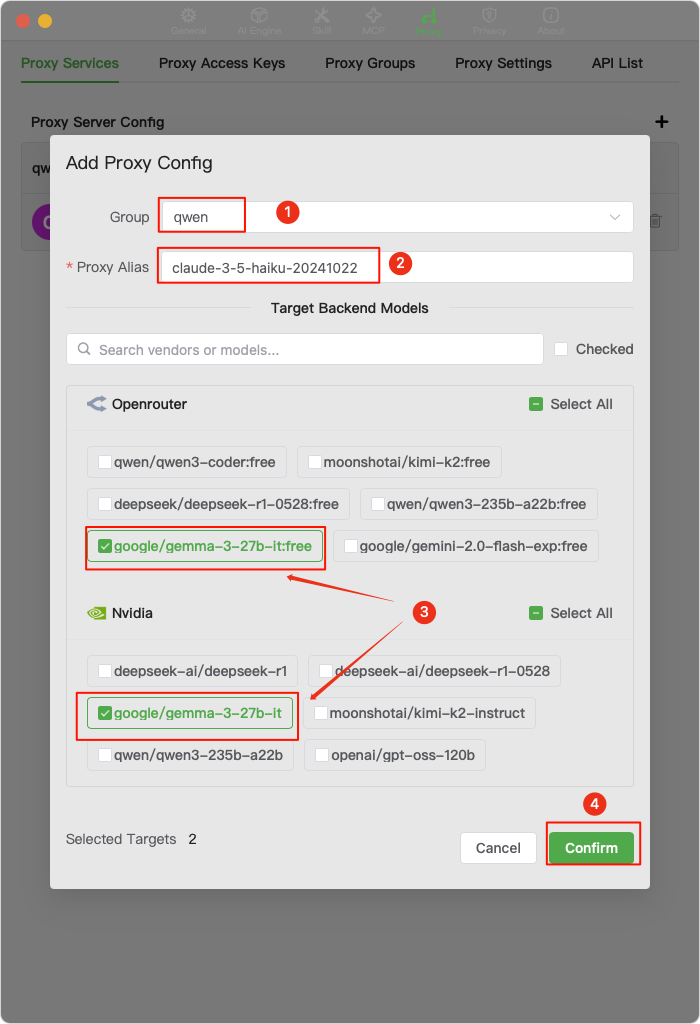
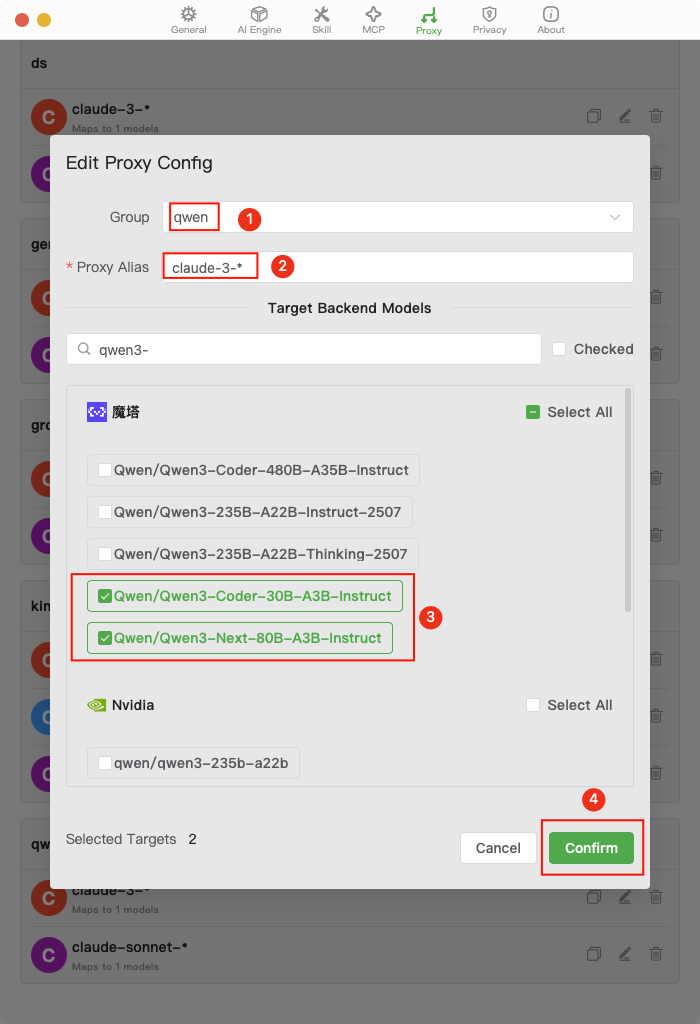
更新ccproxy文档用于适配通配符模式

diff --git a/docs/ccproxy/configuration.md b/docs/ccproxy/configuration.md
@@ -56,16 +56,20 @@ After managing groups, we can now add different proxies to the corresponding gro
 
 3.  Fill in the fields as indicated in the image and save.
     - **Group**: In this example, we are configuring qwen3-code as a backup model for `Claude Code`, so select qwen.
-    - **Proxy Alias**: `Claude Code` currently uses `claude-sonnet-4-5-20250929` as its main programming model, so enter `claude-sonnet-4-5-20250929` here.
+    - **Proxy Alias**: We use the `sonnet` series as the main programming model for `Claude Code`, so enter `claude-sonnet-*` here.
     - **Model**: Search for qwen, then select all qwen3-coder or related models.
 
       > Note: You can select multiple different models from the same (or different) provider as shown in the example in the image. CCProxy will balance the load across provider to improve model call frequency and reduce the risk of `429` errors.
 
-      > Note: The `claude-sonnet-4-5-20250929` in the example is the current default model for `Claude Code`. You can also use other Claude series models in the proxy model alias configuration, such as `claude-sonnet-4-20250514`. Simply specify it via the `--model` parameter when starting Claude.
+      > **Wildcards**: When configuring proxies, model aliases support the use of wildcards at any position. `*` can match zero or more arbitrary characters, for example, `claude-sonnet-*` can match `claude-sonnet-4-5-20250929`. `?` can match a single arbitrary character, for example, `model-v1.?` can match `model-v1.0` or `model-v1.5`.
+
+      > In the example, we used the wildcard `claude-sonnet-*` for the proxy alias. This avoids the situation where our configured model becomes unavailable if `Claude Code` upgrades to use a different model in the future. When starting `Claude`, you can use the `sonnet` series by passing the `--model sonnet` parameter. If you prefer the name `opus`, you can use `claude-opus-*` and then start with `claude --model opus`, but this is actually irrelevant, as the model that actually performs the task is the one it points to (in this example, `qwen3-coder`).
+
+      > For quick group switching and entry into `Claude Code`, please refer to [Claude Code Integration Guide](claude-code.md)
 
     ![Add Proxy](/images/en/proxy-setting-2.png)
 
-4.  Please follow step 3 again to add a `claude-3-5-haiku-20241022` proxy, which is currently used by `Claude Code` to generate conversation titles.
+4.  Please follow step 3 again to add a `claude-3-*` proxy, which is currently used by `Claude Code` to generate conversation titles.
 
     ![Add Proxy](/images/en/proxy-setting-3.png)
 
@@ -108,3 +112,7 @@ The following prompt enhancement is appended to the `Claude Code` system prompt.
 ### 🎛 Parameter Tuning
 
 Judging from the requests sent by `Claude Code`, tuning is currently done mainly through the temperature parameter, while parameters like `top_k` and `top_p` are not set. It is recommended to refer to the official documentation for the optimal temperature of each model. It is known that the optimal temperature for `qwen3-coder` is 0.7, and for `kimi-k2` it is 0.6. For other models, please refer to the official documentation of the model you are using.
+
+### 🔌 Integrating with `Claude Code`
+
+To integrate with `Claude Code`, please refer to the [Claude Code Integration Guide](claude-code.md)

diff --git a/docs/zh/ccproxy/claude-code.md b/docs/zh/ccproxy/claude-code.md
@@ -17,9 +17,9 @@ keywords: Claude Code, 接入指南, CCProxy, Chatspeed, 代理模型, zsh, bash
 4. 已添加所需的代理模型
 5. 已配置好代理密钥
 
-## 🔌 接入 Claude Code
+## 🔌 接入 `Claude Code`
 
-为了方便快速将 CCProxy 代理分组接入 Claude Code，我们提供了两个脚本，分别用于 `zsh` 和 `bash` 环境。利用它们，您可以快速进入不同的代理分组。根据您使用的 Shell 环境，可以直接将相应脚本拷贝到配置文件中或保存为独立脚本。
+为了方便快速将 `CCProxy` 代理分组接入 `Claude Code`，我们提供了两个脚本，分别用于 `zsh` 和 `bash` 环境。利用它们，您可以快速进入不同的代理分组。根据您使用的 `Shell` 环境，可以直接将相应脚本拷贝到配置文件中或保存为独立脚本。
 
 > **重要**：务必将脚本中的`$DEV_KEY`修改为您在**代理密钥**中设置的密钥，并将`$KIMI_KEY`修改为您的实际密钥。另外，脚本中的`prod`环境使用了 Kimi 官方的 API 接口，如果您使用的是`Claude Code`的官方模型，请将其改为相应的`URL`。
 
@@ -142,7 +142,7 @@ go_claude() {
   # echo "   ANTHROPIC_AUTH_TOKEN = $ANTHROPIC_AUTH_TOKEN"
 
   echo "👉 正在进入 Claude ..."
-  claude --model claude-sonnet-4-5-20250929
+  claude --model sonnet
 }
 ```
 
@@ -261,7 +261,7 @@ go_claude() {
   # echo "   ANTHROPIC_AUTH_TOKEN = $ANTHROPIC_AUTH_TOKEN"
 
   echo "👉 正在进入 Claude ..."
-  claude --model claude-sonnet-4-5-20250929
+  claude --model sonnet
 }
 ```
 

diff --git a/docs/ccproxy/claude-code.md b/docs/ccproxy/claude-code.md
@@ -142,7 +142,7 @@ go_claude() {
   # echo "   ANTHROPIC_AUTH_TOKEN = $ANTHROPIC_AUTH_TOKEN"
 
   echo "👉 Entering Claude ..."
-  claude --model claude-sonnet-4-5-20250929
+  claude --model sonnet
 }
 ```
 
@@ -261,7 +261,7 @@ go_claude() {
   # echo "   ANTHROPIC_AUTH_TOKEN = $ANTHROPIC_AUTH_TOKEN"
 
   echo "👉 Entering Claude ..."
-  claude --model claude-sonnet-4-5-20250929
+  claude --model sonnet
 }
 ```
 
